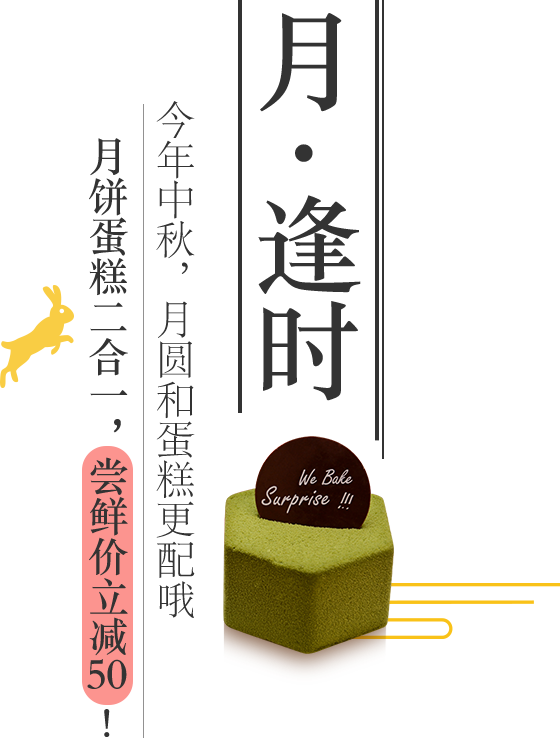
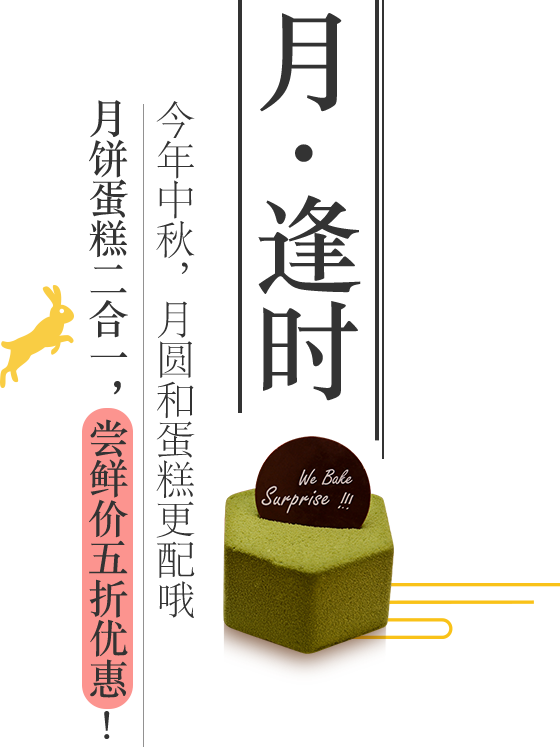
月饼蛋糕活动修改

diff --git a/src/midautumn.html b/src/midautumn.html
@@ -164,7 +164,7 @@
           <div class="midautumn-rules">
             <dl>
               <dt>活动规则</dt>
-              <dd>1. 月·逢时（原价￥189元）活动价￥139元</dd>
+              <dd>1. 月·逢时（原价￥318元）活动价<span>￥159</span>元</dd>
               <dd>2. 此活动限量2500份</dd>
               <dd>3. 活动时间：2017年9月17日—2017年10月3日</dd>
               <dd>4. 配送时间：2017年9月18日—2017年10月4日</dd>

diff --git a/src/assets/scss/midautumn.scss b/src/assets/scss/midautumn.scss
@@ -31,7 +31,7 @@
       right: -1000px;
       z-index: 10;
       width: 560px;
-      height: 738px;
+      height: 747px;
       background: {
         image: url('../imgs/midautumn/title.png');
         repeat: no-repeat;
@@ -198,6 +198,10 @@
       margin-left: 450px;
       font-size: 14px;
       line-height: 30px;
+
+      span {
+        font-weight: bold;
+      }
     }
   }
 }
